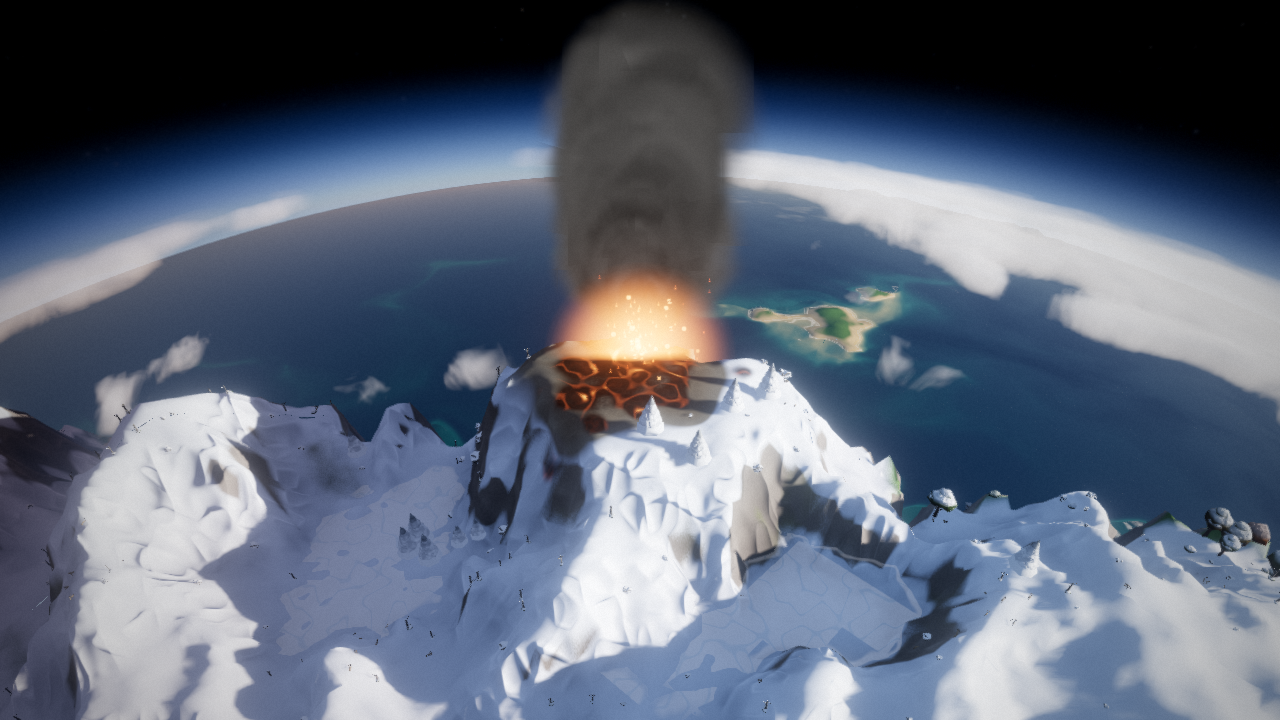
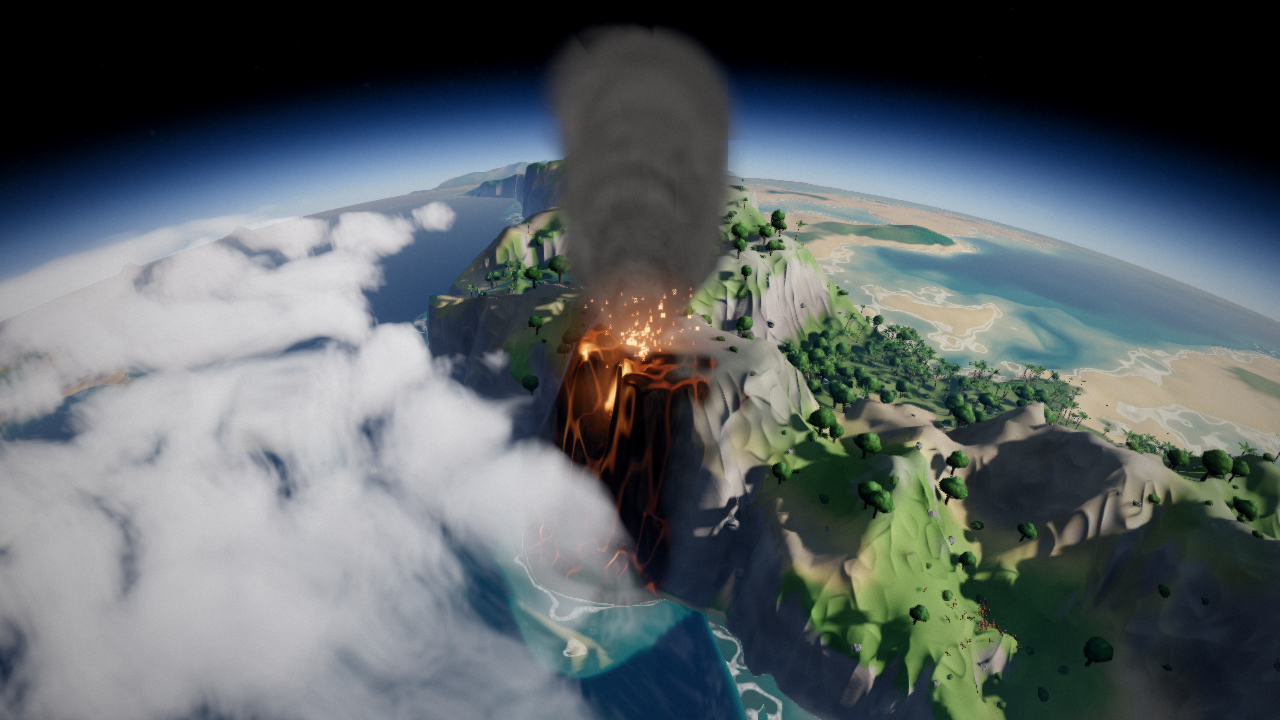
Volcano capture with frozen lakes hidden (lava running down the flank); README notes how it was captured
Claude-Session: https://claude.ai/code/session_01P1K7jeGpkvrVy88twc6oDA

diff --git a/README.md b/README.md
@@ -83,7 +83,7 @@ be exported to and imported from files.
 
 ## Screenshots
 
-Captured from the running game (seed 20260925, High quality) by `npm run shots` (landscapes) and `node scripts/debug/uicheck.mjs docs/screenshots/ui` / `node scripts/debug/title.mjs docs/screenshots/ui` (interface).
+Captured from the running game (seed 20260925, High quality) by `npm run shots` (landscapes) and `node scripts/debug/uicheck.mjs docs/screenshots/ui` / `node scripts/debug/title.mjs docs/screenshots/ui` (interface). The volcano was captured with `npm run shots -- --only=village,volcano`, so its world is a few days younger than in the full run and the eruption opens in a different range.
 
 | | |
 |---|---|
